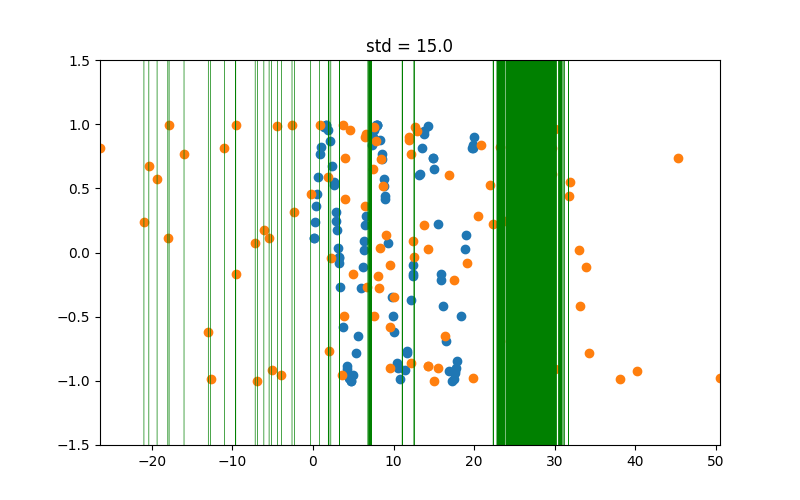
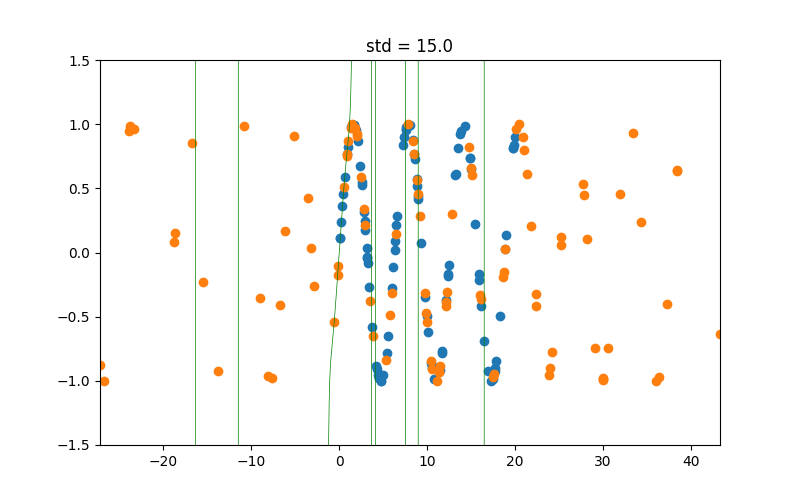
using noise to compute new y

diff --git a/HW2/Lagrange/LI.py b/HW2/Lagrange/LI.py
@@ -22,6 +22,7 @@ with open("LI_train.txt", "r") as input_file:
             Ys.append(y)
 
 nXs = []
+nYs = []
 
 add_noise = False
 std = 0
@@ -33,10 +34,14 @@ for x in Xs:
     if add_noise:
         new_x = x + random.normal(0,std)
         nXs.append(new_x)
+        nYs.append(math.sin(new_x))
     else:
         nXs.append(x)
 
-li_poly = lagrange(nXs, Ys)
+if not add_noise:
+    nYs = Ys[:]
+
+li_poly = lagrange(nXs, nYs)
 li_coef = li_poly.coef[::-1]
 f = Polynomial(li_coef)
 #print(f)
@@ -47,7 +52,7 @@ plt.xlim(min(nXs),max(nXs))
 plt.ylim(-1.5, 1.5)
 
 plt.scatter(Xs, Ys)
-plt.scatter(nXs, Ys)
+plt.scatter(nXs, nYs)
 plt.plot(x_range, f(x_range), linewidth=0.5, color="green")
 
 
